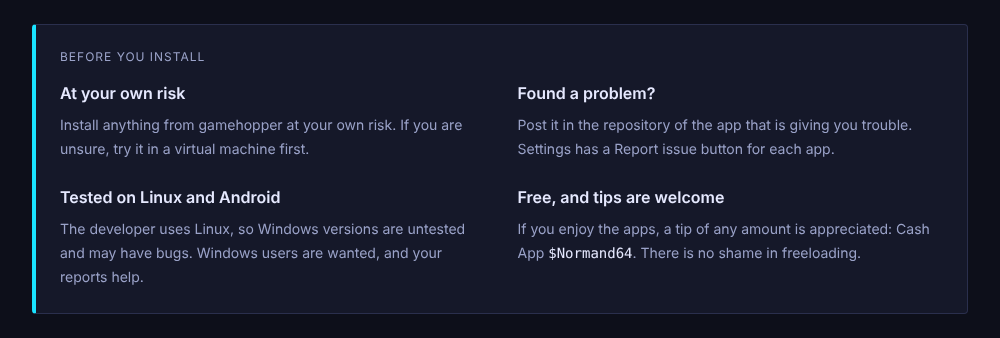
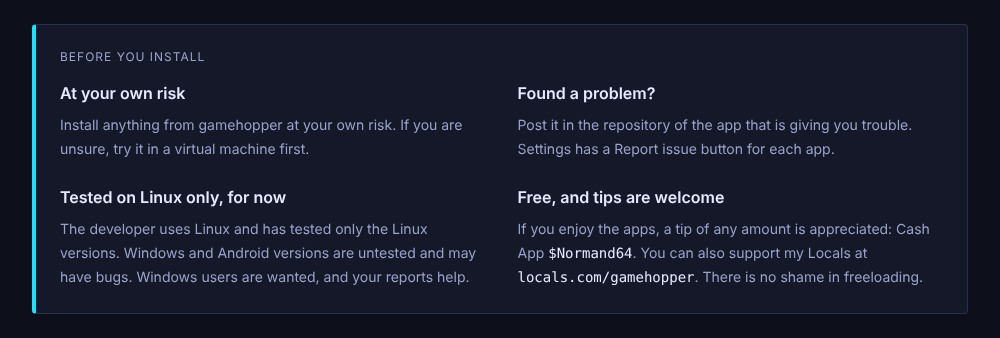
Version 0.1.3: panel says tested on Linux only, tiles stay one shape, new screenshots
- In-app notice now says Linux only, matching the README, and includes the Locals note.
- Long app names no longer wrap, so every tile lines up; corner button and names a touch smaller.
- README pictures retaken from this version.

Claude-Session: https://claude.ai/code/session_01Rf7yLmMBHw5t9LnPjK5sZB

diff --git a/src/index.html b/src/index.html
@@ -25,7 +25,7 @@
     <div class="items">
       <div><b>At your own risk</b><p>Install anything from gamehopper at your own risk. If you are unsure, try it in a virtual machine first.</p></div>
       <div><b>Found a problem?</b><p>Post it in the repository of the app that is giving you trouble. Settings has a Report issue button for each app.</p></div>
-      <div><b>Tested on Linux and Android</b><p>The developer uses Linux, so Windows versions are untested and may have bugs. Windows users are wanted, and your reports help.</p></div>
+      <div><b>Tested on Linux only, for now</b><p>The developer uses Linux and has tested only the Linux versions. Windows and Android versions are untested and may have bugs. Windows users are wanted, and your reports help.</p></div>
       <div><b>Free, and tips are welcome</b><p>If you enjoy the apps, a tip of any amount is appreciated: Cash App <code>$Normand64</code>. You can also support my Locals at <code>locals.com/gamehopper</code>. There is no shame in freeloading.</p></div>
     </div>
   </aside>

diff --git a/src/main.js b/src/main.js
@@ -83,7 +83,7 @@ function tile(app) {
 
   const grip = el("button", { className: "grip", type: "button", title: "Drag to move, or use the arrow keys" });
   grip.setAttribute("aria-label", `Move ${app.name}. Drag it, or press the arrow keys.`);
-  const top = el("div", { className: "top" }, grip, el("div", { className: "titles" }, el("h2", { textContent: app.name }), el("div", { className: "tag", textContent: app.tagline, title: app.tagline })));
+  const top = el("div", { className: "top" }, grip, el("div", { className: "titles" }, el("h2", { textContent: app.name, title: app.name }), el("div", { className: "tag", textContent: app.tagline, title: app.tagline })));
   if (app.installed) top.append(button(app.adopted ? "Forget" : "Uninstall", "x", () => uninstall(app), working));
 
   const sel = el("select");

diff --git a/src/style.css b/src/style.css
@@ -147,3 +147,10 @@ label.sub { font-size: 14px; color: var(--dim); }
 .grip:active { cursor: grabbing; }
 .tile.dragging { border-color: var(--accent); outline: 1px solid var(--accent); }
 .sheet > button.ghost { margin-bottom: 16px; }
+
+/* A long app name is cut off with "..." instead of wrapping, so every tile stays the same shape. */
+.tile h2 { white-space: nowrap; overflow: hidden; text-overflow: ellipsis; }
+
+/* Make room: a slightly smaller corner button and app name, the same on every tile, so even the longest name fits. */
+.tile h2 { font-size: 18px; line-height: 24px; }
+.x { padding: 0 6px; font-size: 11px; }

diff --git a/README.md b/README.md
@@ -29,7 +29,7 @@ update is available.
 
 ![The Before you install panel with four short notes.](docs/images/before-you-install.png)
 
-*Below the tiles, a short "Before you install" panel. The wording in this picture is from version 0.1.2 and still says "Linux and Android"; the warning at the top of this page is the current guidance (tested on Linux only).*
+*Below the tiles, a short "Before you install" panel.*
 
 ![The launcher in the Midnight and Paper (light) themes.](docs/images/themes.png)
 
